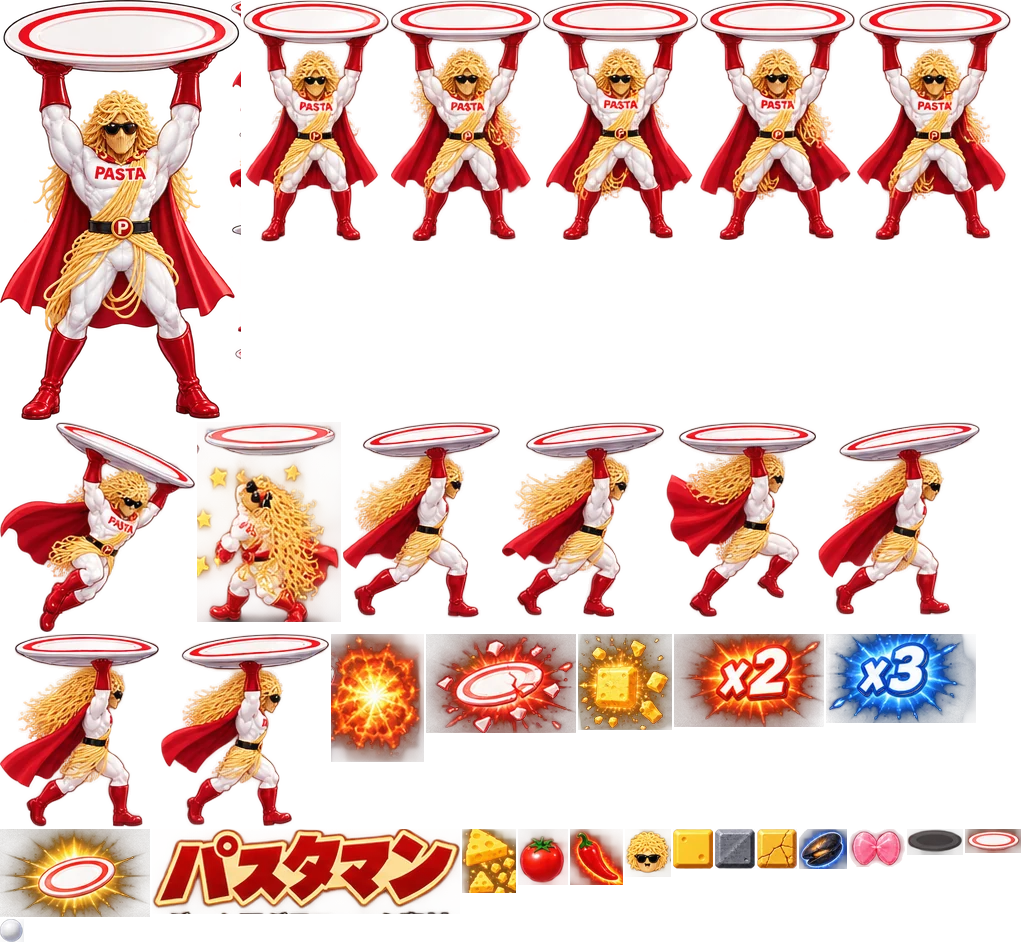
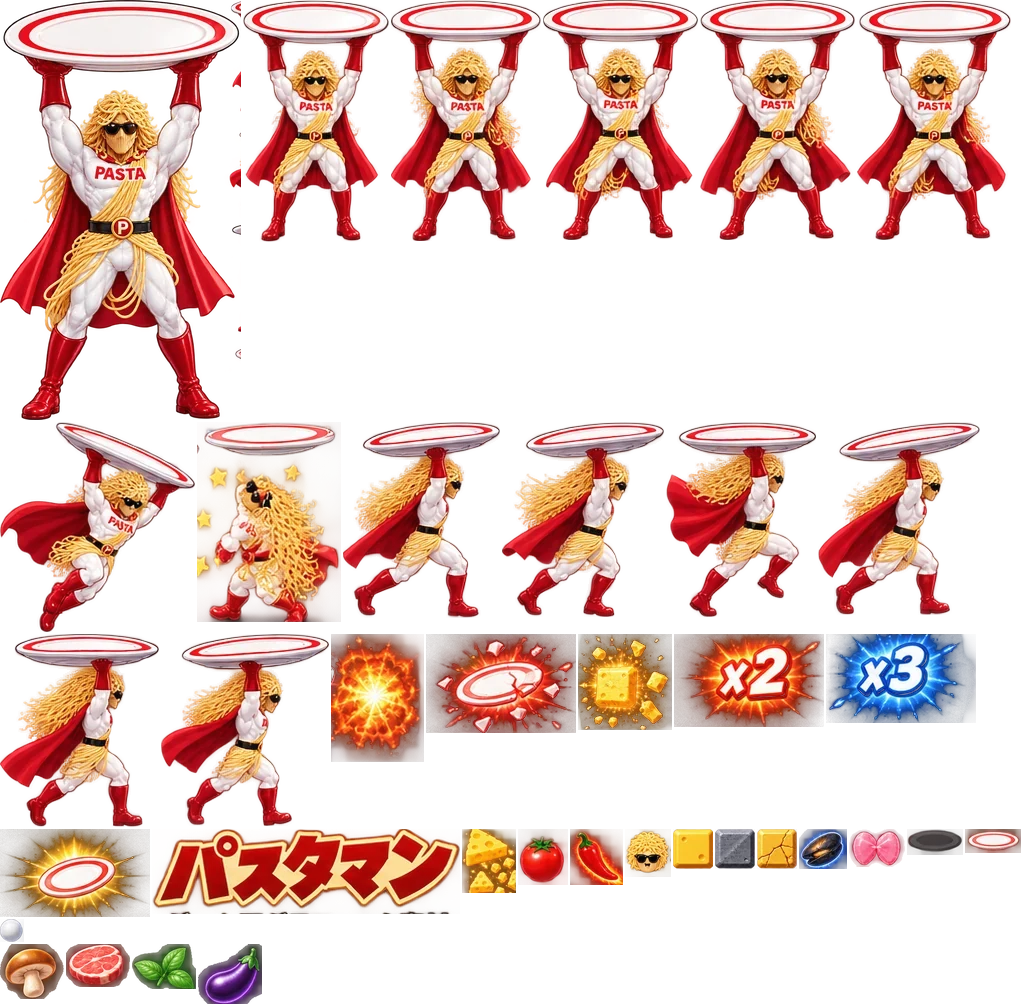
Game: official art for mushroom, meat, basil and eggplant items
Replaces the placeholder drawings with cutouts from the new asset sheet;
meat orbiting a ball now uses the meat sprite too.

Claude-Session: https://claude.ai/code/session_01SK7WT6jZZjtD6C9W6esfAS

diff --git a/game/index.html b/game/index.html
@@ -134,7 +134,7 @@ const isBrk=v=>v>0&&v!==WALL;
 let SPEED=270;
 const cv=document.getElementById('c'),ctx=cv.getContext('2d');
 const DISP=getComputedStyle(document.documentElement).getPropertyValue('--display');
-const SP={"logo":[152,829,308,85],"hit":[197,422,144,200,68,137],"brick":[673,829,40,40],"stone":[715,829,40,40],"crack":[757,829,40,40],"ball":[0,919,24,23],"tomato":[518,829,50,56],"chili":[570,829,53,56],"cheese":[462,829,54,64],"mussel":[799,829,48,40],"boom":[331,634,93,128],"mentai":[849,829,56,38],"life":[625,829,46,48],"plate":[965,829,56,24],"plate0":[907,829,56,26],"getfx":[0,829,150,88],"lostfx":[426,634,150,99],"x2":[674,634,150,93],"x3":[826,634,150,89],"goldfx":[578,634,94,96],"idle0":[543,0,155,240,77,154],"idle1":[700,0,155,240,77,154],"idle2":[857,0,154,240,77,151],"idle3":[391,0,150,241,74,149],"idle4":[243,0,146,242,72,145],"run0":[161,634,168,192,94,146],"run1":[818,422,162,193,94,134],"run2":[502,422,162,195,92,137],"run3":[343,422,157,196,88,136],"run4":[666,422,150,195,81,136],"run5":[0,634,159,193,86,143],"storm":[0,422,195,210,96,81],"hero":[0,0,241,420]};
+const SP={"logo":[152,829,308,85],"hit":[197,422,144,200,68,137],"brick":[673,829,40,40],"stone":[715,829,40,40],"crack":[757,829,40,40],"ball":[0,919,24,23],"tomato":[518,829,50,56],"chili":[570,829,53,56],"cheese":[462,829,54,64],"mussel":[799,829,48,40],"boom":[331,634,93,128],"mentai":[849,829,56,38],"life":[625,829,46,48],"plate":[965,829,56,24],"plate0":[907,829,56,26],"getfx":[0,829,150,88],"lostfx":[426,634,150,99],"x2":[674,634,150,93],"x3":[826,634,150,89],"goldfx":[578,634,94,96],"idle0":[543,0,155,240,77,154],"idle1":[700,0,155,240,77,154],"idle2":[857,0,154,240,77,151],"idle3":[391,0,150,241,74,149],"idle4":[243,0,146,242,72,145],"run0":[161,634,168,192,94,146],"run1":[818,422,162,193,94,134],"run2":[502,422,162,195,92,137],"run3":[343,422,157,196,88,136],"run4":[666,422,150,195,81,136],"run5":[0,634,159,193,86,143],"storm":[0,422,195,210,96,81],"hero":[0,0,241,420],"mushroom":[0,944,64,55],"meat":[66,944,64,43],"basil":[132,944,64,45],"eggplant":[198,944,64,60]};
 const ATLAS=new Image();let atlasOK=false;
 ATLAS.onload=()=>{atlasOK=true;buildTiles();fillTitle();};
 ATLAS.src='atlas.webp';
@@ -421,25 +421,11 @@ function wallTile(sz){const c=document.createElement('canvas');const p=Math.max(
   const gr=g.createLinearGradient(0,0,p,p);gr.addColorStop(0,'#8a9bb0');gr.addColorStop(.5,'#4b5a6e');gr.addColorStop(1,'#2a3341');g.fillStyle=gr;g.fillRect(0,0,p,p);
   g.strokeStyle='#1a2029';g.lineWidth=Math.max(1,p*.08);g.strokeRect(g.lineWidth/2,g.lineWidth/2,p-g.lineWidth,p-g.lineWidth);
   g.fillStyle='#c9d3df';const rr=Math.max(1,p*.07);for(const [a,b] of [[.25,.25],[.75,.25],[.25,.75],[.75,.75]]){g.beginPath();g.arc(p*a,p*b,rr,0,6.283);g.fill();}return c;}
-function iconTile(type,sz){const c=document.createElement('canvas');const p=Math.max(8,Math.round(sz*scale));c.width=c.height=p;const g=c.getContext('2d');g.scale(p/32,p/32);
-  g.lineJoin='round';g.lineCap='round';
-  if(type==='mushroom'){ g.fillStyle='#f6e7cf';g.beginPath();g.moveTo(11,16);g.quadraticCurveTo(10,29,16,29);g.quadraticCurveTo(22,29,21,16);g.fill();
-    g.fillStyle='#e23b2e';g.beginPath();g.moveTo(2,18);g.bezierCurveTo(2,4,30,4,30,18);g.closePath();g.fill();
-    g.fillStyle='#fff';for(const [a,b,r] of [[10,11,2.6],[19,8,2.2],[24,14,2],[15,15,1.6]]){g.beginPath();g.arc(a,b,r,0,6.283);g.fill();} }
-  else if(type==='meat'){ g.strokeStyle='#f3efe6';g.lineWidth=4;g.beginPath();g.moveTo(5,27);g.lineTo(13,19);g.stroke();
-    g.fillStyle='#f3efe6';g.beginPath();g.arc(4,26,3,0,6.283);g.arc(6,29,3,0,6.283);g.fill();
-    g.fillStyle='#9a4a22';g.beginPath();g.ellipse(19,13,11,9,-.6,0,6.283);g.fill();g.fillStyle='#c8683a';g.beginPath();g.ellipse(18,12,7,5,-.6,0,6.283);g.fill();
-    g.fillStyle='rgba(255,255,255,.5)';g.beginPath();g.ellipse(16,9,3,1.6,-.6,0,6.283);g.fill(); }
-  else if(type==='basil'){ g.fillStyle='#3fae5a';g.beginPath();g.moveTo(16,2);g.quadraticCurveTo(31,12,16,30);g.quadraticCurveTo(1,12,16,2);g.fill();
-    g.fillStyle='#6fd47f';g.beginPath();g.moveTo(16,5);g.quadraticCurveTo(25,12,16,26);g.quadraticCurveTo(12,14,16,5);g.fill();
-    g.strokeStyle='#2a7a3c';g.lineWidth=1.4;g.beginPath();g.moveTo(16,4);g.lineTo(16,29);g.moveTo(16,12);g.lineTo(21,9);g.moveTo(16,17);g.lineTo(11,14);g.moveTo(16,21);g.lineTo(21,18);g.stroke(); }
-  else if(type==='eggplant'){ g.fillStyle='#5b2a86';g.beginPath();g.ellipse(17,19,9,11,.35,0,6.283);g.fill();
-    g.fillStyle='#7d45b0';g.beginPath();g.ellipse(14,17,3,6,.35,0,6.283);g.fill();
-    g.fillStyle='#3fae5a';g.beginPath();g.moveTo(8,6);g.lineTo(13,10);g.lineTo(9,13);g.lineTo(16,11);g.lineTo(20,14);g.lineTo(19,9);g.lineTo(23,4);g.lineTo(16,7);g.closePath();g.fill(); }
-  return c;}
+function fitTile(n,sz){const c=document.createElement('canvas');const px=Math.max(4,Math.round(sz*scale));c.width=c.height=px;
+  const g=c.getContext('2d'),m=SP[n],k=Math.min(px/m[2],px/m[3]),w=m[2]*k,h=m[3]*k;g.drawImage(ATLAS,m[0],m[1],m[2],m[3],(px-w)/2,(px-h)/2,w,h);return c;}
 function buildTiles(){ if(!atlasOK) return; const s=CELL-1;
   tiles={brick:tile('brick',s),stone:tile('stone',s),stone1:tile('stone',s,.6),mussel:tile('mussel',s+2),ball:tile('ball',BR*2.3),
-    wall:wallTile(CELL),mushroom:iconTile('mushroom',16),meat:iconTile('meat',16),basil:iconTile('basil',16),eggplant:iconTile('eggplant',16),tomato:tile('tomato',16),chili:tile('chili',16),cheese:tile('cheese',17),mentai:tile('mentai',17)};}
+    wall:wallTile(CELL),mushroom:fitTile('mushroom',18),meat:fitTile('meat',18),basil:fitTile('basil',18),eggplant:fitTile('eggplant',18),meatS:fitTile('meat',7),tomato:tile('tomato',16),chili:tile('chili',16),cheese:tile('cheese',17),mentai:tile('mentai',17)};}
 function spr(n,dx,dy,dw,dh){const m=SP[n];ctx.drawImage(ATLAS,m[0],m[1],m[2],m[3],dx,dy,dw,dh);}
 function sprC(n,x,y,w){const m=SP[n];const h=w*m[3]/m[2];spr(n,x-w/2,y-h/2,w,h);}
 function fx(n,x,y,w,life=.6,grow=.5){ if(fxs.length<24) fxs.push({n,x,y,w,life,max:life,grow}); }
@@ -503,8 +489,9 @@ function draw(){
   ctx.fillStyle='#ff3b1f';ctx.beginPath();
   for(const b of balls){ if(b.p<=0) continue; ctx.moveTo(b.x+BR+1,b.y);ctx.arc(b.x,b.y,BR+1,0,6.283);} ctx.fill();
   // meat satellites
-  ctx.fillStyle='#c8683a';ctx.beginPath();
-  for(const b of balls){ if(b.o===undefined) continue; const ox=b.x+Math.cos(b.o)*11,oy=b.y+Math.sin(b.o)*11; ctx.moveTo(ox+2.8,oy);ctx.arc(ox,oy,2.8,0,6.283);} ctx.fill();
+  if(T&&tiles.meatS){ for(const b of balls){ if(b.o===undefined) continue; const ox=b.x+Math.cos(b.o)*11,oy=b.y+Math.sin(b.o)*11; ctx.drawImage(tiles.meatS,ox-3.5,oy-3.5,7,7);} }
+  else { ctx.fillStyle='#c8683a';ctx.beginPath();
+  for(const b of balls){ if(b.o===undefined) continue; const ox=b.x+Math.cos(b.o)*11,oy=b.y+Math.sin(b.o)*11; ctx.moveTo(ox+2.8,oy);ctx.arc(ox,oy,2.8,0,6.283);} ctx.fill(); }
   if(homT>0){ ctx.strokeStyle='rgba(127,211,107,.5)';ctx.lineWidth=1;ctx.beginPath(); let k=0;
     for(const b of balls){ if(b.p>0||++k>400) continue; ctx.moveTo(b.x+BR+1.5,b.y);ctx.arc(b.x,b.y,BR+1.5,0,6.283);} ctx.stroke(); }
   if(nasuT>0&&!(nasuT<2.5&&Math.floor(t*8)%2)){ const y=PY+31; ctx.fillStyle='rgba(176,124,224,.25)';ctx.fillRect(0,y-3,W,8);
